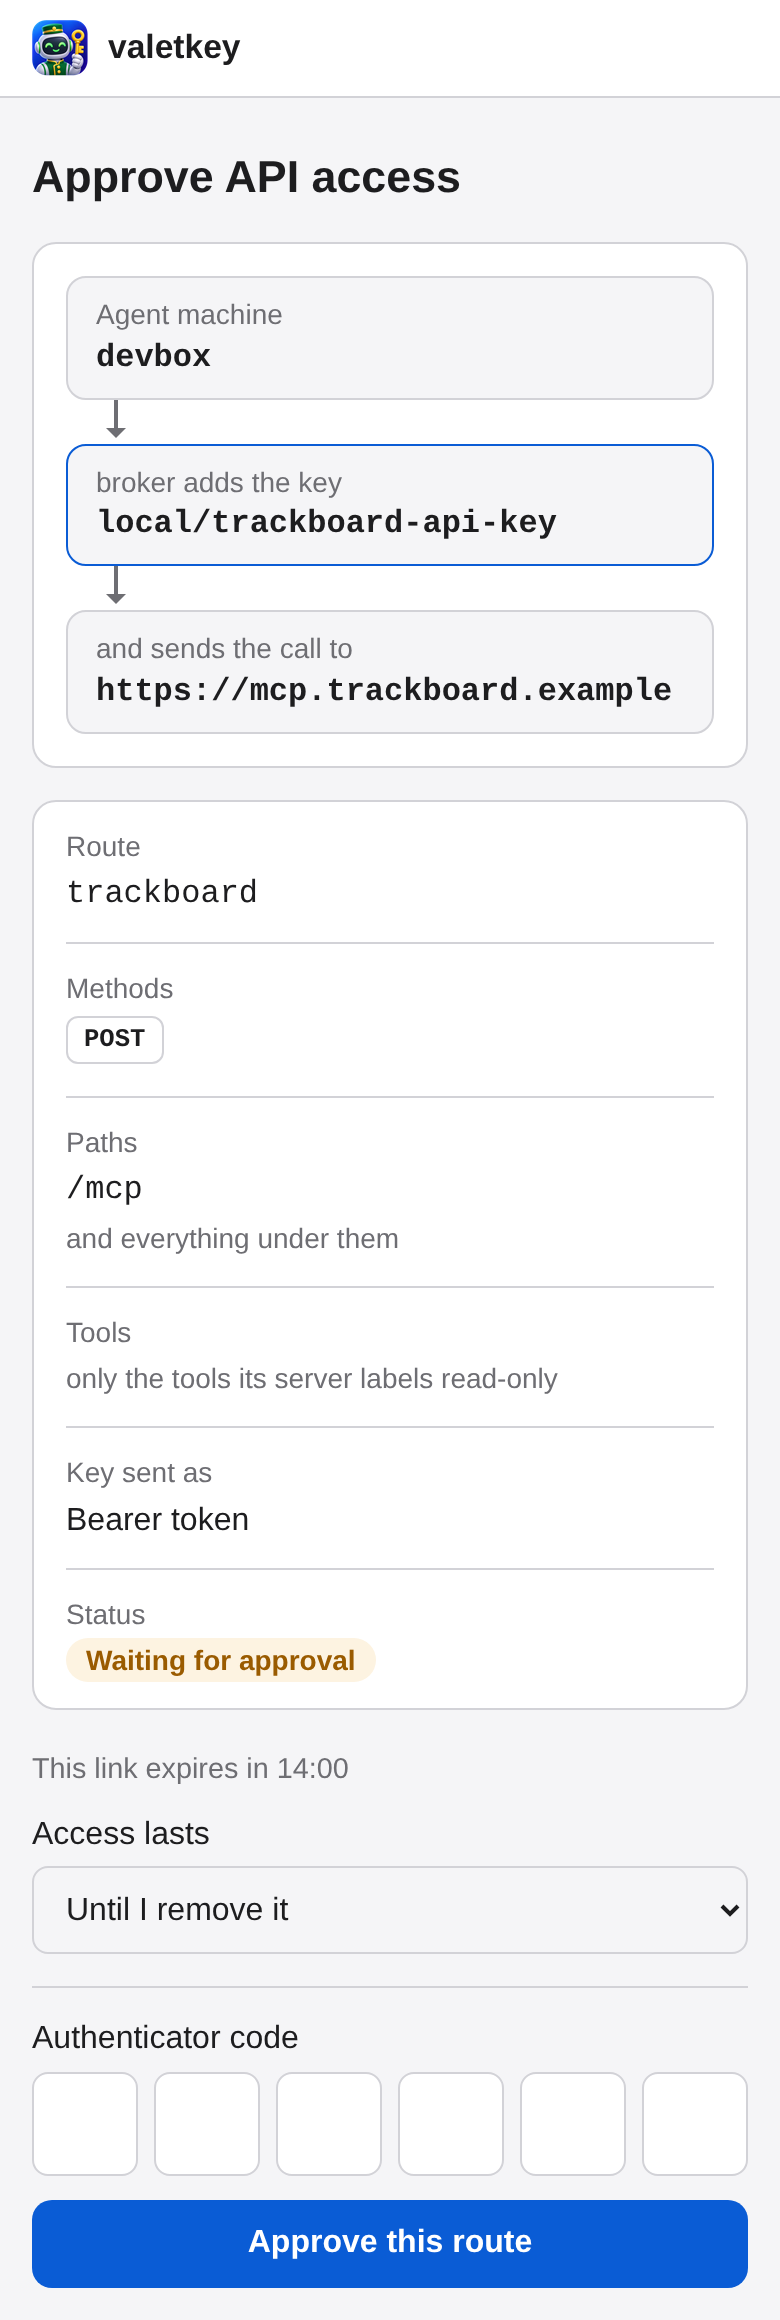
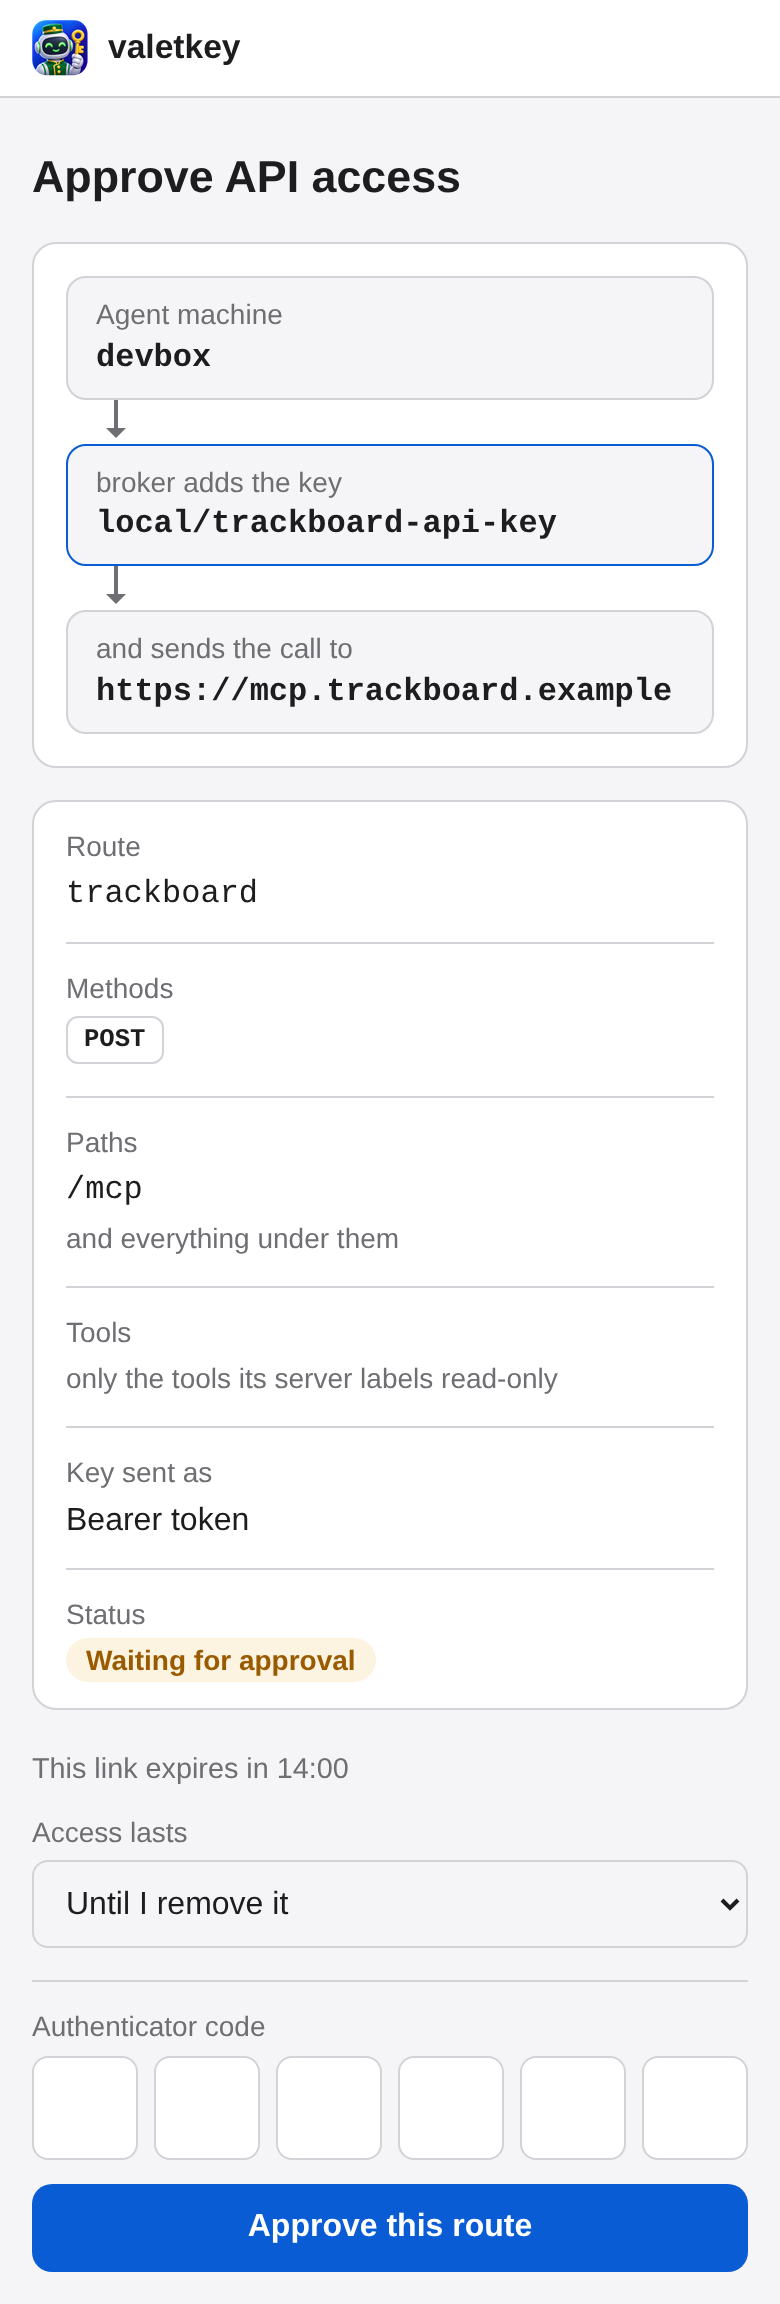
Approval page: form labels look like the table's labels

diff --git a/broker/entry-page.html b/broker/entry-page.html
@@ -164,7 +164,8 @@
      600px the three controls share one width and one left edge. From 900px the page widens to two
      columns: what is asked on the left, and on the right one panel with the time limit, the code
      and the button, so the decision is in one place. */
-  .approve > form select + label { margin-top: 16px; padding-top: 14px; border-top: 1px solid var(--line); }
+  .approve > form label { color: var(--muted); font-size: 0.875rem; }  /* as the labels in the table */
+  .approve > form select + label { margin-top: 16px; padding-top: 12px; border-top: 1px solid var(--line); }
   @media (min-width: 600px) {
     .approve > form select, .approve > form button.wide { width: 100%; max-width: 22rem; margin-left: 0; }
   }
@@ -177,7 +178,7 @@
       .approve > p:first-child { font-size: 1.25rem; max-width: 46rem; }
       .approve > .spec, .approve > img { grid-area: what; margin: 0; }
       .approve > form { grid-area: form; position: sticky; top: 16px; display: flex; flex-direction: column;
-                        padding: 8px 20px 16px; background: var(--card); border: 1px solid var(--line);
+                        padding: 2px 16px 16px; background: var(--card); border: 1px solid var(--line);
                         border-radius: 12px; }
       .approve > form select, .approve > form button.wide, .approve > form .code-boxes { max-width: none; }
       .approve > form button.wide { margin-top: 16px; }
